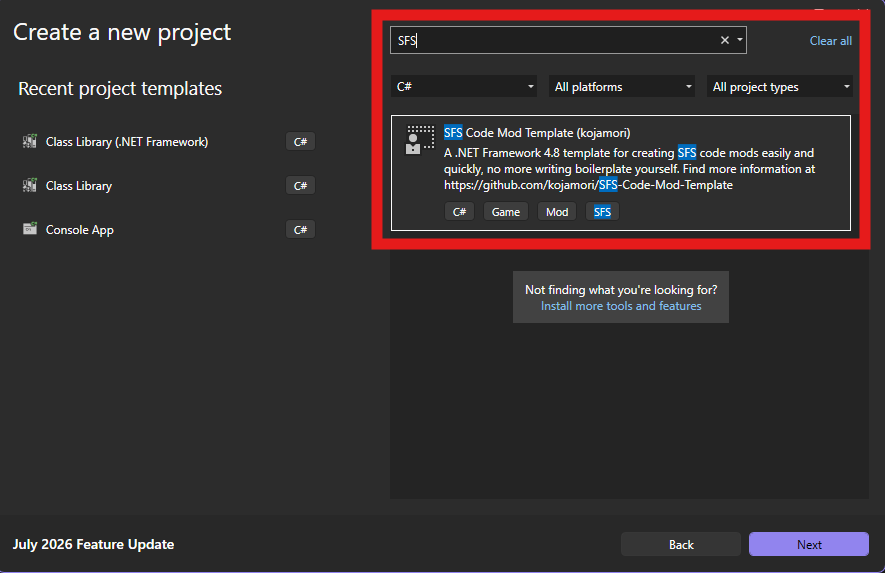
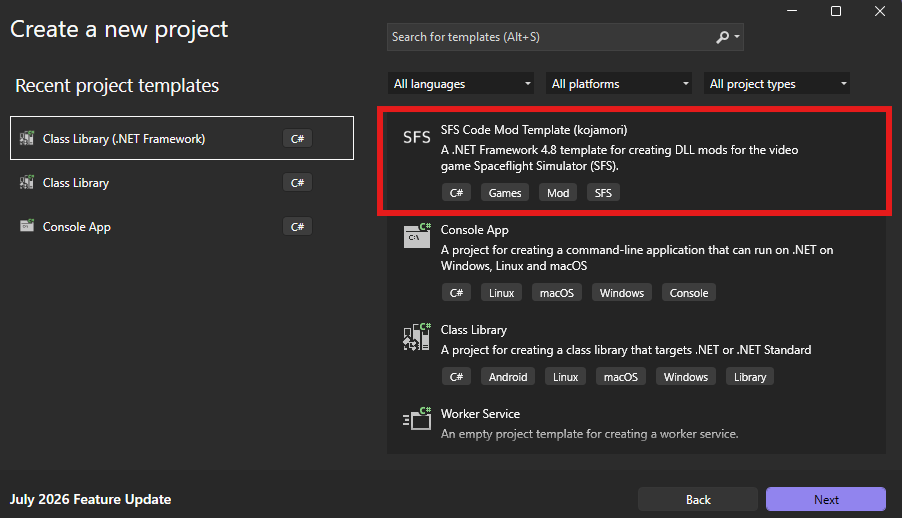
refactor docs

diff --git a/FEATURES.MD b/FEATURES.MD
@@ -1,0 +1,106 @@
+# Features
+
+## Automatic SFS Path Resolution
+
+The path to your game folder is resolved automatically on Windows by checking the path to Steam. On MacOS and Linux, the most common installation paths for Steam are checked.
+
+If you have a custom install location on MacOS or Linux, you must specify it by changing `FallbackSteamPath` in the `.csproj` to where the main Steam folder is. Ensure you do not include any trailing slashes.
+
+## Implicit Managed References
+
+This template can implicitly reference all of the DLLs in the Managed folder, which means you don't have to manually add them as references in your project.
+
+When this is disabled, the project will initially only reference the following essential assemblies:
+
+- `Managed/Assembly-CSharp.dll`
+- `Managed/UnityEngine.dll`
+- `Managed/UnityEngine.CoreModule.dll`
+- `Managed/0Harmony.dll`.
+
+When creating a new project, you can enable/disable this by changing **"Implicit Managed References"** (`--implicitManagedReferences`, `-im` in the CLI) to `true` or `false`.
+
+To toggle this behaviour in an existing project made with this template, you can change the `ImplicitManagedReferences` value in the project's `.csproj`.
+
+This **is enabled by default.**
+
+## Automatic Mod Copying to SFS Mods Folder
+
+This template can copy the build DLL into the SFS mods folder after building the mod successfully.
+This is useful for testing your mod in SFS without having to manually copy the DLL into the mods folder every time you build it.
+
+**USE THIS AT YOUR OWN RISK, IT WILL OVERWRITE ANY EXISTING DLL IN YOUR MOD'S FOLDER.**
+
+When creating a new project, you can enable/disable this by changing the **"Automatic Mod Copying"** (`--autoCopyMod`, `-p:a` in the CLI) to `true` or `false`.
+
+To toggle this behaviour in an existing project made with this template, you can change `AutoCopyMod` value in the project's `.csproj`.
+
+This is **is disabled by default.**
+
+## Mod Updating Boilerplate via UITools
+
+The template can optionally include boilerplate for mod updating via UITools (details at https://github.com/cucumber-sp/UITools.) when creating the project with this template.
+
+When creating the project with the template, you can include/exclude this with by changing **"Include Automatic DLL Updating Boilerplate"** (`--updateBoilerplate`, `-up` in the CLI) to `true` or `false`.
+
+This is **disabled by default.**
+
+```csharp
+// This is what your code will look like if you enable the "Include Automatic DLL Updating Boilerplate" option when creating the project with the template.
+
+// ...
+using SFS.IO;
+using UITools;
+using System.Reflection;
+
+public class Main : Mod, IUpdatable
+{
+  // ...
+
+  public override Dictionary<string, string> Dependencies => new Dictionary<string, string>()
+  {
+      { "UITools", "1.1.6" }
+  };
+
+  // Automatic updating using Neptune-Sky's UITools' IUpdatable interface.
+  // Details at https://github.com/cucumber-sp/UITools.
+  public Dictionary<string, FilePath> UpdatableFiles => new()
+  {
+      {
+          "Link/To/Latest/DLL/Release/Goes/Here",
+          new FolderPath(ModFolder).ExtendToFile(Assembly.GetExecutingAssembly().GetName().Name + ".dll")
+      }
+  };
+
+  // ...
+}
+```
+
+## Harmony Patching Boilerplate
+
+The template also includes boilerplate code for using Harmony for patching.
+
+When creating the project with the template, you can include/exclude this with by changing **"Include Harmony Boilerplate"** (`--harmony`, `ha` in the CLI) to `true` or `false`.
+
+This **is enabled by default.**
+
+```csharp
+// This is what your code will look like if you enable the "Include Harmony Patching Boilerplate" option when creating the project with the template.
+
+// ...
+using HarmonyLib;
+
+public class Main : Mod
+{
+  // ...
+
+  private Harmony _patcher;
+
+  public override void Early_Load()
+  {
+      _patcher = new Harmony(Instance.ModNameID);
+      _patcher.PatchAll();
+  }
+
+  // ...
+}
+```

diff --git a/README.md b/README.md
@@ -15,22 +15,7 @@ Features include:
 
 ## Feature Documentation
 
-### Automatic Mod Copying to SFS Mods Folder
-
-One of the features of this template is that MSBuild can copy the build DLL into the SFS mods folder after building the mod successfully. You can enable/disable this by changing the `AutoCopyMod` value in the project's `.csproj` from `True/False`.
-
-You can set "Automatic Mod Copying" (`--autoCopyMod`, `-p:a` in the CLI) to `true` when creating the project with the template to enable this behaviour, as **it is disabled by default.**
-
-### Implicit References
-
-This template also has an option to use implicit references for all of the managed DLLs, which means you don't have to manually add them as references in your project. You can enable/disable this by changing the `ImplicitManagedReferences` value in the project's `.csproj` from `True/False`, and instead you get only essential references including:
-
-- `Assembly-CSharp.dll`
-- `UnityEngine.dll`
-- `UnityEngine.CoreModule.dll`
-- `0Harmony.dll`.
-
-You can set "Implicit Managed References" (`--implicitManagedReferences`, `im` in the CLI) to `false` when creating the project with the template to disable this behaviour, as it **is enabled by default.**
+See [here](FEATURES.md) for more information on the features of this template.
 
 # Requirements
 
